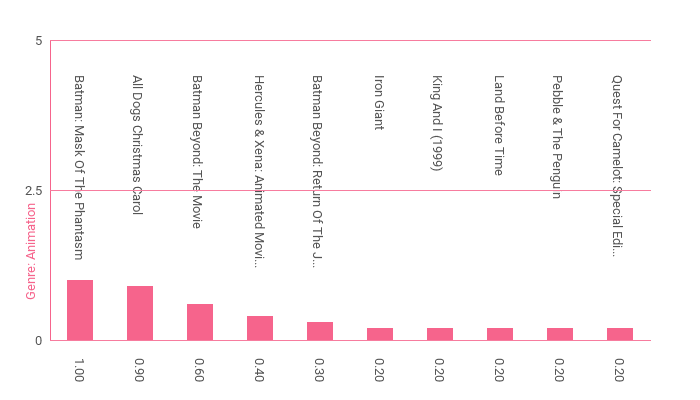
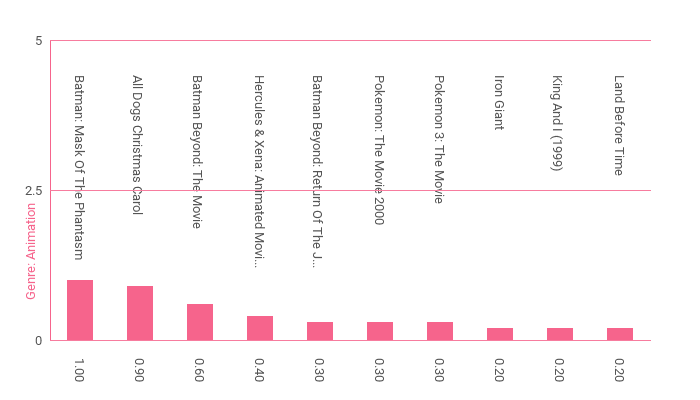
enabled other graph tracking again

diff --git a/scripts/function.php b/scripts/function.php
@@ -143,12 +143,11 @@ function searchDB($search, $genre, $rating, $year)
  * Adds popularity to database record
  *
  * @param [int]    $ID     ID of movie to add popularity
- * @param [String] $genre  Genre of changed movie
  * @param [String] $amount Amount of popularity to add
  * 
  * @return void
  */
-function addPopularity($ID, $genre, $amount) 
+function addPopularity($ID, $amount) 
 {
     // Check for ID not empty
     if ($ID > 0) {
@@ -159,10 +158,19 @@ function addPopularity($ID, $genre, $amount)
         $sql = sprintf("UPDATE movies SET Popularity = Popularity + $amount WHERE ID = $ID");
         $conn->query($sql);
 
-        // Records information for other charts as well
-        // Disabled to reduce databse clutter
+        $sql = sprintf("SELECT Genre FROM movies WHERE ID = $ID");
+        $result = $conn->query($sql);
 
-        // checkResult($ID, $genre);
+        if ($result->num_rows > 0) {
+            $row = $result->fetch_assoc();
+
+            $genre = $row['Genre'];
+
+            // Records information for other charts as well
+            checkResult($ID, $genre);
+        }        
+
+        
 
         // Empty genre - Updates all chart if needed
         $genre = "";

diff --git a/info.php b/info.php
@@ -37,11 +37,11 @@
             // Handles voting
  
             if (isset($_POST['upvote'])) {
-                addPopularity($ID, "", 1);
+                addPopularity($ID, 1);
             }
 
             if (isset($_POST['downvote'])) {
-                addPopularity($ID, "", -1);
+                addPopularity($ID, -1);
             }
 
             // Gets Movie from database
